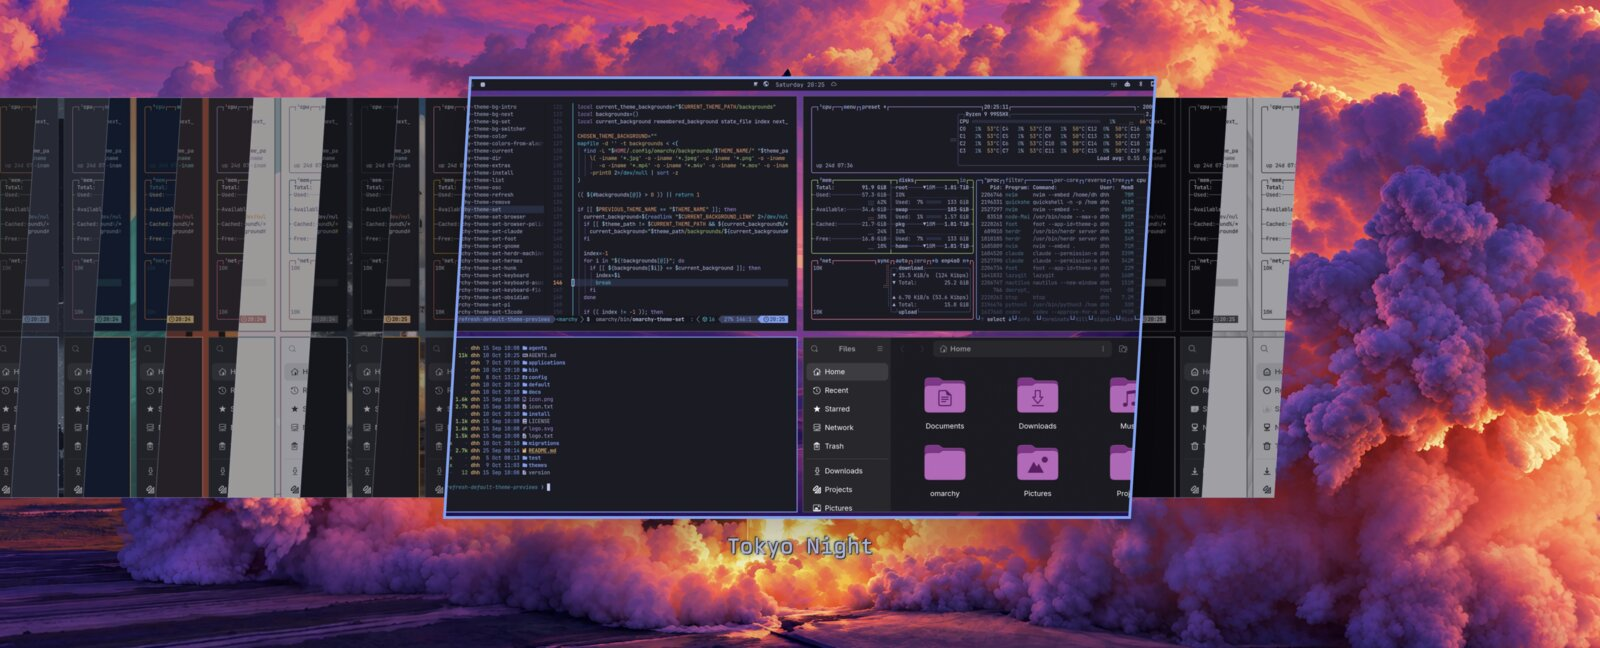
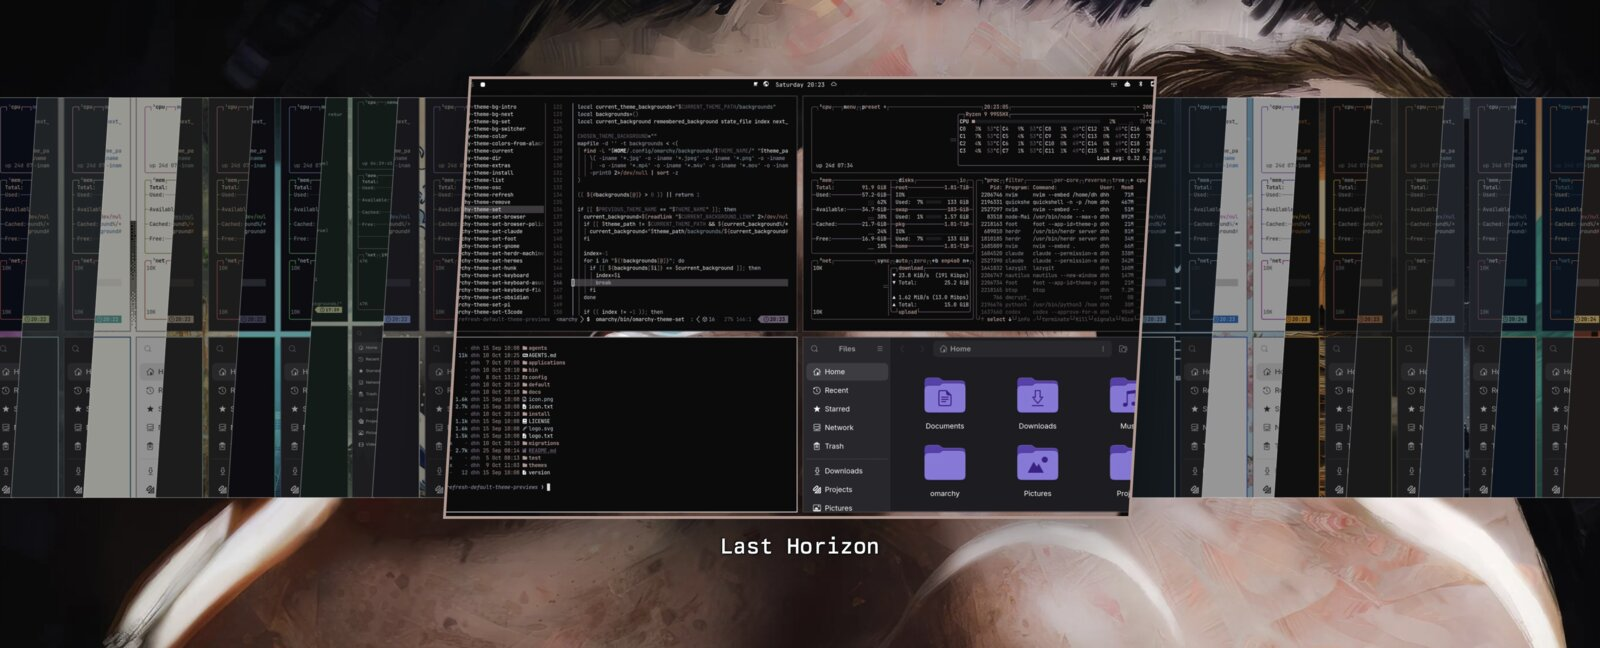
Show Last Horizon in the README screenshot

diff --git a/README.md b/README.md
@@ -2,7 +2,7 @@
 
 Theme Switcher brings [Omarchy](https://github.com/basecamp/omarchy)'s themes to macOS. Pick a theme from the menu bar or from a full-screen picker, and macOS, your wallpaper, and the apps you work in change to match.
 
-![The theme picker, showing Tokyo Night selected among the other Omarchy themes](docs/picker.jpg)
+![The theme picker, showing Last Horizon selected among the other Omarchy themes](docs/picker.jpg)
 
 ## What a theme changes
 
